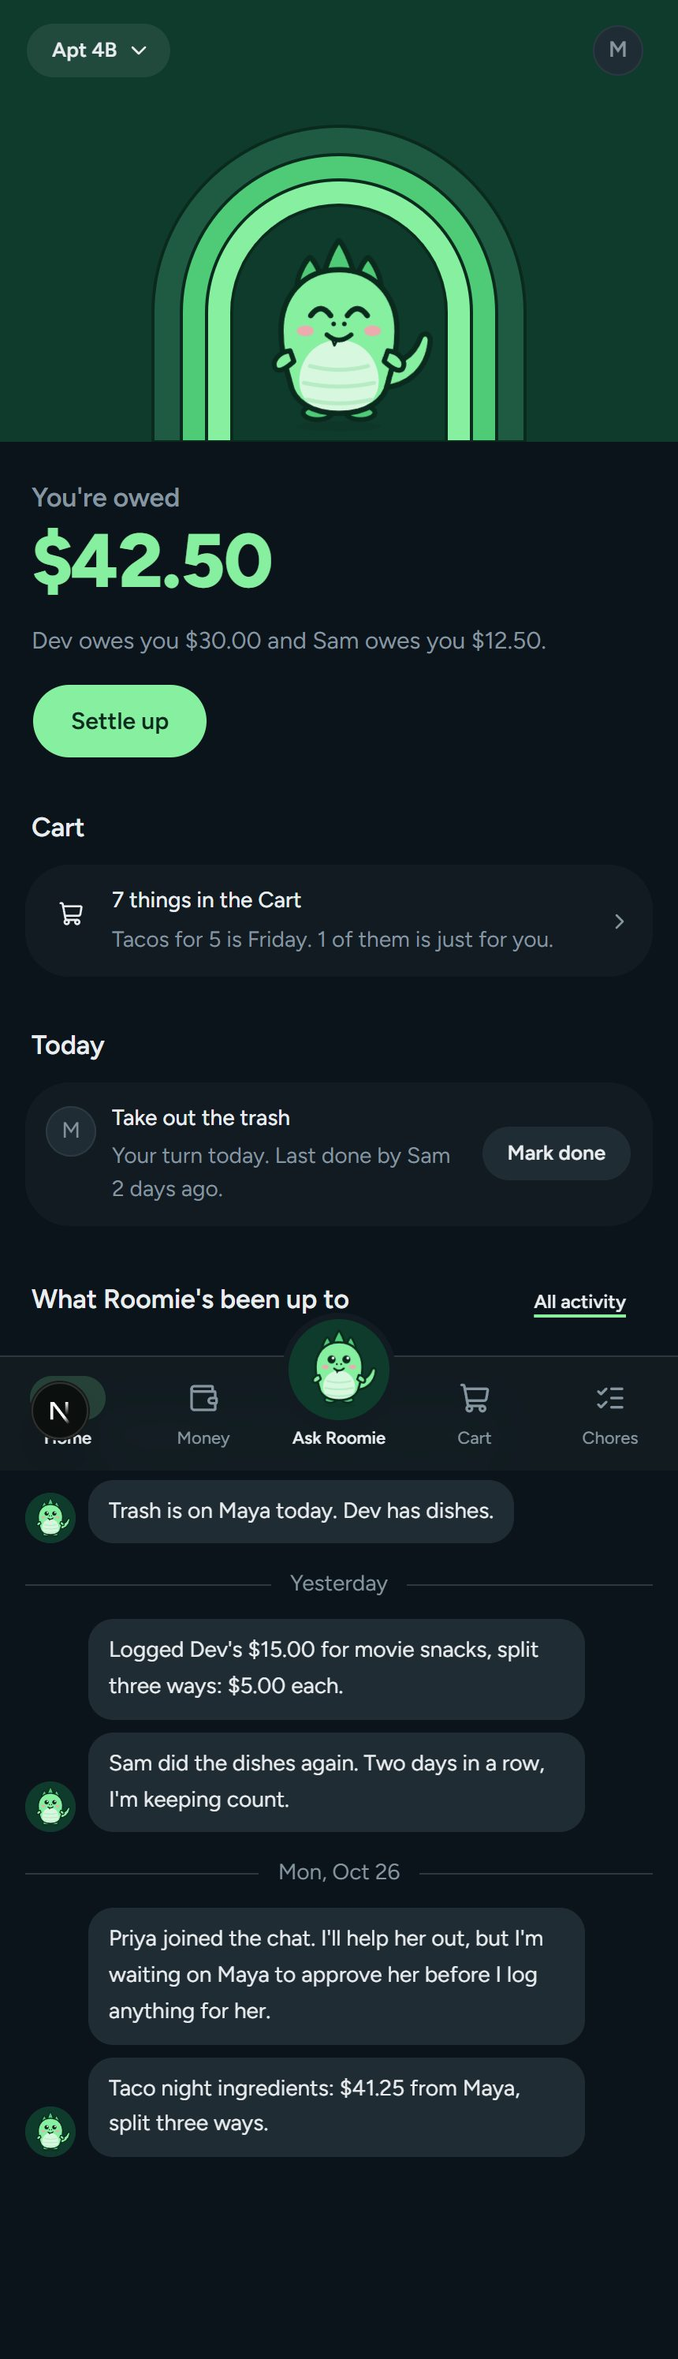
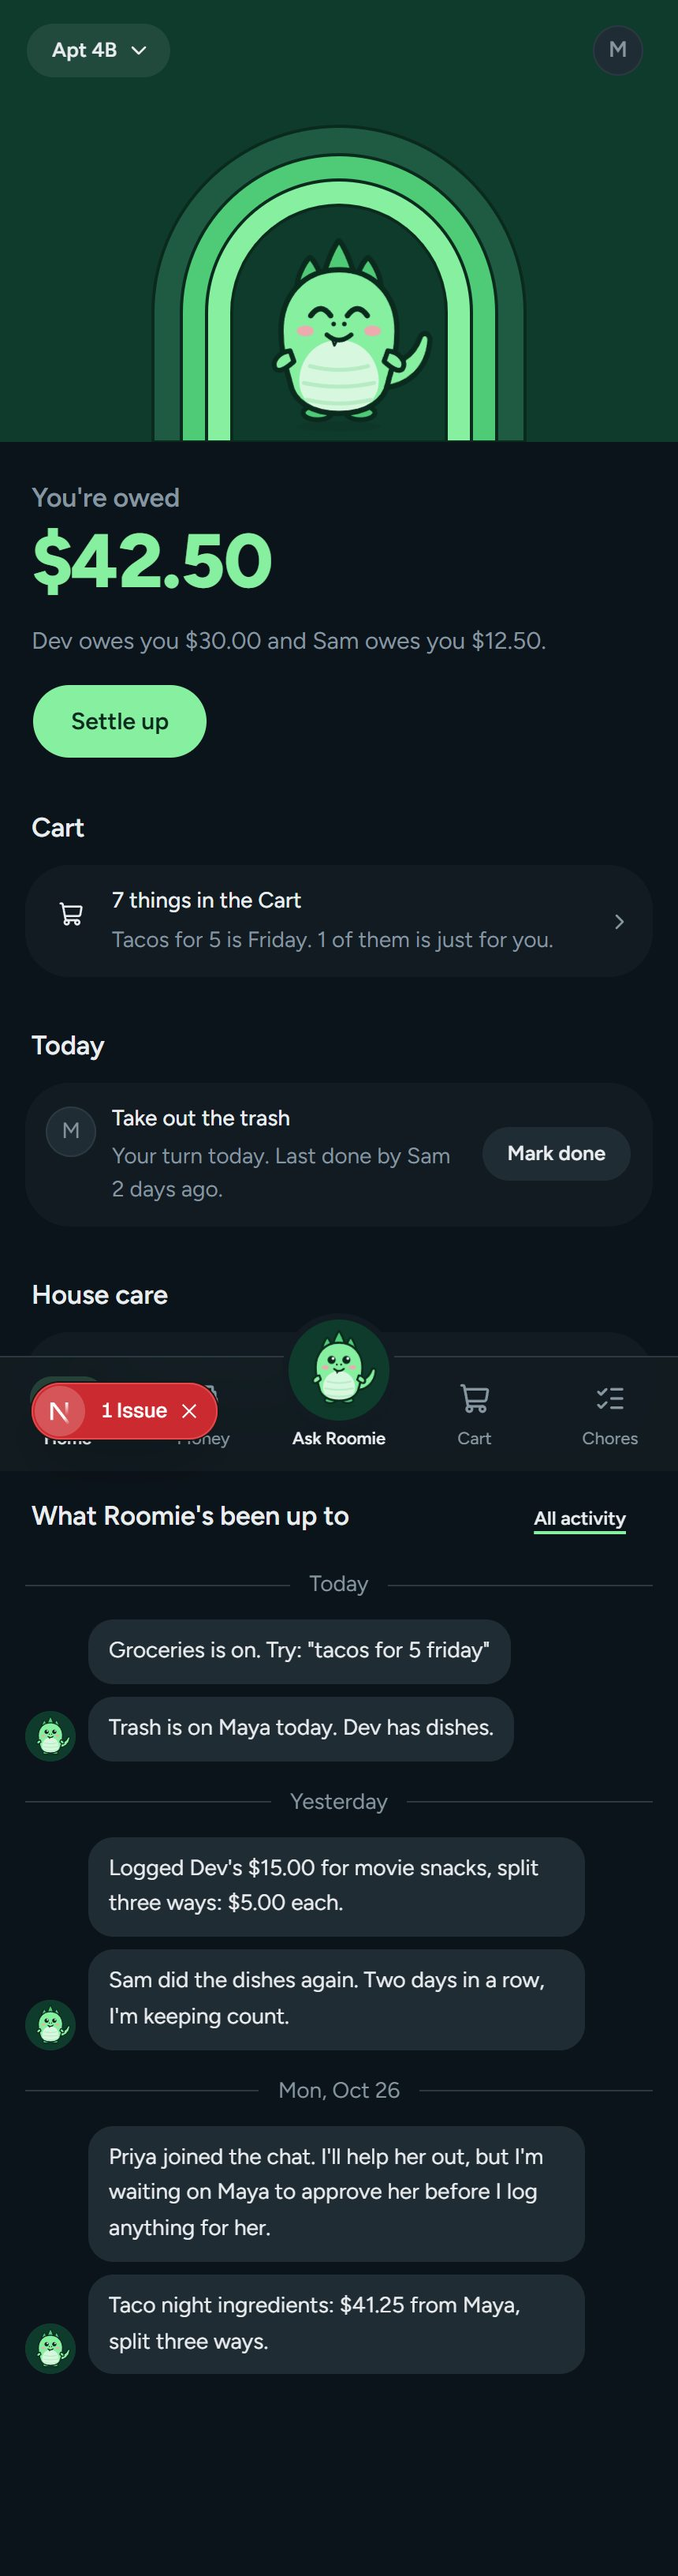
test(evals): baseline after the merge, 66/67 (99%; members fails as before: Roomie says 'you' to Dev); refreshed Home and Settings screenshots (Upkeep's Home section, step 7's schedule in core settings)

diff --git a/docs/evals-baseline.md b/docs/evals-baseline.md
@@ -1,65 +1,75 @@
 # Eval baseline
 
-`npm run evals` on 2026-10-29: **56/57 (98%)**, 6.8 s per scenario on average.
+`npm run evals` on 2026-10-29: **66/67 (99%)**, 7.1 s per scenario on average.
 Agent `claude-sonnet-5-5`, Gate `typesafeai-jev-1-14-0` (normal Chattiness), through the Neon AI Gateway.
 Scenarios are in `src/mastra/evals/scenarios.ts`; gate = decision/reason/toolkit, tools = what the agent called.
 
 | scenario | area | gate | tools | pass | why | reply |
 |---|---|---|---|---|---|---|
 | split-basic | splitting | act/hard-trigger/splitting | log_expense | ✅ |  | Logged: $60 internet, Maya paid, split 3 ways, $20 each 💸 |
-| split-subset | splitting | act/hard-trigger/splitting | log_expense | ✅ |  | Logged: $30 uber, Sam paid, split with Dev. Dev owes Sam $15.00 🚗 |
-| split-uneven-50-25-25 | splitting | act/hard-trigger/splitting | log_expense | ✅ |  | Logged: $90 dinner, Maya paid. Maya's share is $45 for the steak, and Dev and Sam owe $22.50 each 🥩 |
-| split-shares-2-2-1 | splitting | act/hard-trigger/splitting | log_expense | ✅ |  | Logged: $41.25 wine and cheese, Maya paid, split 2:2:1. Maya and Dev owe $16.50 each, Sam owes $8.25 🍷 |
-| split-exact-doesnt-add-up-asks | splitting | act/hard-trigger/groceries | cart_view | ✅ |  | Those parts add up to $55, not $50, so something's off. Also, the grocery cart is empty, and I can only split  |
-| multi-payer | splitting | act/hard-trigger/splitting | log_expense | ✅ |  | Logged: $100 concert tickets, Dev paid $60 and Maya $40, split 3 ways. Maya and Sam owe $33.33 each, Dev owes  |
-| delete-expense | splitting | act/hard-trigger/splitting | delete_expense | ✅ |  | Deleted the pizza expense ($24.00). Say "undo" if you want it back. |
+| split-subset | splitting | act/hard-trigger/splitting | log_expense | ✅ |  | Logged: $30 uber, Sam paid, split with Dev. Dev owes Sam $15.00 🚕 |
+| split-uneven-50-25-25 | splitting | act/hard-trigger/splitting | log_expense | ✅ |  | Logged: $90 dinner, Maya paid. Maya's share is $45.00 (steak 🥩), Dev and Sam owe $22.50 each. |
+| split-shares-2-2-1 | splitting | act/hard-trigger/splitting | log_expense | ✅ |  | Logged: $41.25 wine and cheese, Maya paid, split 2:2:1. Maya and Dev owe $16.50 each, Sam $8.25 🍷🧀 |
+| split-exact-doesnt-add-up-asks | splitting | act/hard-trigger/groceries | - | ✅ |  | Those add up to $55, not $50 (Dev 30 + Sam 15 + you 10). Which is off: the total or someone's share? |
+| multi-payer | splitting | act/hard-trigger/splitting | log_expense | ✅ |  | Logged: $100 concert tickets 🎟 Dev paid $60, Maya paid $40, split 3 ways. Maya's share is $33.33, Dev's is $ |
+| delete-expense | splitting | act/hard-trigger/splitting | delete_expense | ✅ |  | Deleted the pizza expense ($24.00). Say "undo" if you want it back. 🍕 |
 | delete-then-undo | splitting | act/hard-trigger/splitting | restore_expense | ✅ |  | Pizza's back, $24.00, all as it was 🍕 |
 | set-venmo | core | act/hard-trigger/splitting | set_payment_handle | ✅ |  | Done, your Venmo is set to @maya. Settle-up links will point there now 💸 |
-| owes-pairwise-simplify-off | splitting | act/hard-trigger/splitting | get_balances | ✅ |  | Sam, you're at -$60.00 and Maya's owed $60.00. Dev nets out at $0.00. The pairwise breakdown is Sam owes Dev $ |
+| owes-pairwise-simplify-off | splitting | act/hard-trigger/splitting | get_balances | ✅ |  | Sam, you owe $30.00 to Maya and $30.00 to Dev. Dev owes Maya $30.00. Dev nets out to $0 overall, and Maya is o |
 | owes-simplified | splitting | act/hard-trigger/splitting | get_balances | ✅ |  | Sam owes Maya $60.00. Dev's all square. Want the pay buttons? |
 | category-utilities | splitting | act/hard-trigger/splitting | log_expense | ✅ |  | Logged: $54 water bill, Maya paid, split 3 ways, $18 each 💧 |
-| settle-up-pay-links | splitting | act/hard-trigger/splitting | settle_up | ✅ |  | You owe Maya $20.00. The Venmo pay button is below 💸 Tell me once you've sent it and I'll record it. |
-| receipt-photo | splitting | act/hard-trigger/splitting | expense_from_receipt | ✅ |  | Logged Luigi's Trattoria, $137.97, you paid. Dev's share is $78.65 (steak plus a third of the rest), and you a |
-| owes-named | splitting | act/hard-trigger/splitting | get_balances | ✅ |  | Maya's owed $40.00. You owe her $20.00, and Sam owes her $20.00 too. |
-| owes-unaddressed-question | splitting | act/jev-act/splitting | get_balances | ✅ |  | Sam and Dev each owe Maya $20.00. Maya is up $40.00 overall. |
+| settle-up-pay-links | splitting | act/hard-trigger/splitting | settle_up | ✅ |  | You owe Maya $20.00. The Venmo pay button is below. Tell me once you've paid and I'll record it 💸 |
+| receipt-photo | splitting | act/hard-trigger/splitting | expense_from_receipt | ✅ |  | Logged Luigi's Trattoria, $137.97, you paid. Dev owes $78.65 (steak plus his share of the rest, with tax and t |
+| owes-named | splitting | act/hard-trigger/splitting | get_balances | ✅ |  | Dev owes Maya $20.00, and Sam owes Maya $20.00 too. Maya's up $40.00 overall. Want the pay buttons for Maya? |
+| owes-unaddressed-question | splitting | act/jev-act/splitting | get_balances | ✅ |  | Maya's owed $40.00 total: Dev owes her $20.00 and you owe her $20.00. Want the pay buttons, Sam? |
 | settle-up | splitting | act/hard-trigger/splitting | settle_up | ✅ |  | Logged: Dev paid Maya $20. You two are square now ✅ |
-| list-expenses | splitting | act/hard-trigger/splitting | list_expenses | ✅ |  | Just two so far: internet $60 (you, split 3 ways) and pizza $24 (Dev, $8 each), both yesterday. Want the balan |
-| unknown-name | splitting | act/hard-trigger/splitting | - | ✅ |  | Jordan isn't in this group (it's just Dev, Maya and Sam). Did you mean one of them, or does Jordan need to joi |
-| unprompted-pizza-asks-first | splitting | act/jev-act/splitting | - | ✅ |  | Want me to log $40 for pizza, Dev paid, split 3 ways? |
-| spanish | splitting | act/hard-trigger/splitting | log_expense | ✅ |  | Anotado: Uber $30, pagó Maya, dividido en 3, $10 cada uno 🚗 |
-| add-milk-eggs | groceries | act/hard-trigger/groceries | - | ✅ |  | Milk and eggs for you or for the whole house? |
-| add-shared | groceries | act/hard-trigger/groceries | cart_add | ✅ |  | Dish soap's in the cart as a shared item, about $3.49 estimated. Anything else for the house? |
-| view-cart | groceries | act/hard-trigger/groceries | cart_view | ✅ |  | Cart's got Dev's oat milk and 6 bananas, estimated total $13.93. Want me to add anything, or is it checkout ti |
+| list-expenses | splitting | act/hard-trigger/splitting | list_expenses | ✅ |  | Lately: pizza $24 (Dev paid) and internet $60 (you paid), both split 3 ways. That's $8 each for the pizza and  |
+| unknown-name | splitting | act/hard-trigger/splitting | - | ✅ |  | I don't see a Jordan in this group (just Dev, Maya and Sam). Did you mean one of them, or does Jordan still ne |
+| unprompted-pizza-asks-first | splitting | act/jev-act/splitting | - | ✅ |  | Want me to log $40 pizza, Dev paid, split 3 ways? |
+| spanish | splitting | act/hard-trigger/splitting | log_expense | ✅ |  | Listo: Uber $30, pagó Maya, entre 3 a $10 cada uno 🚕 |
+| add-milk-eggs | groceries | act/hard-trigger/groceries | - | ✅ |  | Milk and eggs for just you, or for the whole house? |
+| add-shared | groceries | act/hard-trigger/groceries | cart_add | ✅ |  | Dish soap's in the cart as a shared item, about $3.49 estimated. 🧼 |
+| view-cart | groceries | act/hard-trigger/groceries | cart_view | ✅ |  | Cart's got 2 items, both Dev's: 6 bananas and 1 oat milk. Estimated total is $13.93 🛒 |
 | remove-item | groceries | act/hard-trigger/groceries | cart_remove | ✅ |  | Milk's off the list ✅ |
-| checkout-link | groceries | act/hard-trigger/groceries | cart_checkout | ✅ |  | Your Instacart list is ready: 2 items, about $8.78 estimated. Tap the button to order. Once someone's bought i |
-| paid-84-after-checkout | groceries | act/hard-trigger/groceries | cart_purchased | ✅ |  | Logged: $84 groceries (4 items), Maya paid. Shares: Maya $32.57, Dev $36.00, Sam $15.43. Cart's cleared 🛒 |
-| add-chicken-for-house | groceries | act/hard-trigger/groceries | cart_add | ✅ |  | Added 2 lb chicken for the house, about $8.99 est. It's the only thing in the cart so far 🍗 |
-| out-of-dish-soap | groceries | act/hard-trigger/groceries | cart_add | ✅ |  | Dish soap's on the cart as a shared item, about $3.49. Want anything else on it before checkout? |
-| recipe-tacos-friday | groceries | act/hard-trigger/groceries | recipe_draft | ✅ |  | Tacos for 5 (serves 5, 35 min), set for Friday. Need: 1.75 lb ground beef, 1 yellow onion, 1/2 head garlic, 3  |
-| recipe-yes-add-them | groceries | act/jev-act/groceries | recipe_add_to_cart | ✅ |  | Added 12 items to the shared cart, about $46.54 total, and I left the onion out. Say the word when you want to |
-| recipe-explicit-add | groceries | act/hard-trigger/groceries | recipe_draft,recipe_add_to_cart | ✅ |  | They explicitly asked to add, so add.Garlic Tomato Spaghetti for 3, 25 min: spaghetti, crushed tomatoes, garli |
-| recipe-instacart-link | groceries | act/hard-trigger/groceries | recipe_link | ✅ |  | Here you go, Dev: the Instacart page for Tacos for 5 is attached 🌮 |
-| view-cart-recipe | groceries | act/hard-trigger/groceries | cart_view | ✅ |  | Cart has 12 items, est. $46.82. Dev has oat milk, and the other 11 are shared taco ingredients Maya added (tor |
-| pantry-set | groceries | act/hard-trigger/groceries | pantry_set | ✅ |  | Noted: salt and oil are pantry staples now, so I'll leave them off recipe carts. 🧂 |
-| pantry-list | groceries | act/hard-trigger/groceries | pantry_list | ✅ |  | Pantry staples: oil, rice, and salt. Tell me if anything should be added or taken off. |
-| cart-purchased | groceries | act/hard-trigger/groceries | cart_purchased | ✅ |  | Logged: $42 groceries, Sam paid. Maya's part is $22.24 and Dev's is $19.76 💸 |
-| follow-up-window-chips | groceries | maybe/follow-up/groceries | - | ✅ |  | Got it, 2 bags of chips. Are the salsa and chips just for you or for the whole house? |
-| did-dishes | chores | act/hard-trigger/chores | log_chore | ✅ |  | Dishes logged for Dev ✨ That's streak 1, so keep it going. |
-| did-dishes-unprompted-asks | chores | act/jev-act/chores | - | ✅ |  | Want me to log dishes as done by Dev? 🧽 |
-| whose-turn | chores | act/hard-trigger/chores | chore_status | ✅ |  | Dev's up. Maya just took it out today, so the next one isn't due until Sunday night 🗑 |
-| add-chore | chores | act/hard-trigger/chores | add_chore | ✅ |  | Vacuuming is on the chart, every 7 days 🧹 |
-| chore-for-someone-else | chores | act/hard-trigger/chores | log_chore | ✅ |  | Trash logged for Dev ✨ Nice, that's a streak of 1. |
-| track-ac-filter | upkeep | act/hard-trigger/upkeep | add_maintenance | ✅ |  | Tracking it: AC filter, every 90 days. Tell me when it's changed and I'll reset the clock ❄ |
-| maintenance-done | upkeep | act/hard-trigger/upkeep | maintenance_done | ✅ |  | Marked done: HVAC filter replaced today, thanks Dev 🙌 |
-| remind-trash-tuesday | reminders | act/hard-trigger/chores | set_reminder | ✅ |  | Done. Tuesday Nov 3, 8:00 PM: trash goes out, everyone. 🗑 |
-| list-reminders | reminders | act/hard-trigger/core | list_reminders | ✅ |  | Just one: "Rent is due" for everyone, Monday Nov 2 at 10:45 PM. Want me to add or change any? |
-| group-report | core | act/hard-trigger/core | group_report | ✅ |  | 📣 Group report 💸 Dev pays Maya $20.00 💸 Sam pays Maya $20.00 🧹 No chores on the chart yet. ⏰ Nothing sched |
-| members | core | act/hard-trigger/core | list_members | ❌ | reply lacks Dev | It's you, Maya, and Sam. Maya's the admin, and all three of you are active. |
-| what-can-you-do | core | act/hard-trigger/core | list_toolkits | ✅ |  | Here's what I've got on: splitting costs ("I paid 60 for internet", "who owes what?"), groceries ("tacos for 5 |
-| turn-on-research | core | act/hard-trigger/core | toggle_toolkit | ✅ |  | Research isn't ready yet, Maya. It's on the list, but I can't switch it on for now. Splitting, Groceries, Chor |
-| groceries-off-member | core | act/hard-trigger/groceries | - | ✅ |  | Only admins can switch Toolkits, and Maya's the admin here. Maya, want me to turn Groceries off? |
+| checkout-link | groceries | act/hard-trigger/groceries | cart_checkout | ✅ |  | Instacart list is ready: 2 items, about $8.78 estimated. Tap the button to order. Once someone pays, tell me t |
+| paid-84-after-checkout | groceries | act/hard-trigger/groceries | cart_purchased | ✅ |  | Logged: $84.00 groceries (4 items), Maya paid. Split by what each person added: Dev owes $36.00, Sam owes $15. |
+| add-chicken-for-house | groceries | act/hard-trigger/groceries | cart_add | ✅ |  | Added 2 lb chicken to the house cart, est. $8.99 🍗 |
+| out-of-dish-soap | groceries | act/hard-trigger/groceries | cart_add | ✅ |  | Dish soap's in the cart as a shared item, about $3.49 🧼 It's the only thing in there so far. |
+| recipe-tacos-friday | groceries | act/hard-trigger/groceries | recipe_draft | ✅ |  | Tacos for 5 (serves 5, 35 min) Need: 1.5 lb ground beef, 1 yellow onion, 1 head garlic, 2 tbsp chili powder, 2 |
+| recipe-yes-add-them | groceries | act/jev-act/groceries | recipe_add_to_cart | ✅ |  | Added 12 items to the shared cart, about $47.75 total. I left out the onions. Want me to order it through Inst |
+| recipe-explicit-add | groceries | act/hard-trigger/groceries | recipe_draft,recipe_add_to_cart | ✅ |  | They asked to add to cart explicitly.Garlic Tomato Spaghetti for 3 is up. It takes 25 min, and the full steps  |
+| recipe-instacart-link | groceries | act/hard-trigger/groceries | recipe_link | ✅ |  | Here's the Instacart page for Tacos for 5, Dev. The button's attached 🌮 |
+| view-cart-recipe | groceries | act/hard-trigger/groceries | cart_view | ✅ |  | Cart's at 12 items, est. $46.82. Dev has oat milk, and the other 11 are shared taco stuff from Maya's Tacos fo |
+| pantry-set | groceries | act/hard-trigger/groceries | pantry_set | ✅ |  | Got it, salt and oil are in the pantry now. I'll leave them off any recipe shopping lists. 🧂 |
+| pantry-list | groceries | act/hard-trigger/groceries | pantry_list | ✅ |  | Pantry staples: oil, rice and salt. Tell me if anything should be added or taken off. |
+| cart-purchased | groceries | act/hard-trigger/groceries | cart_purchased | ✅ |  | Logged: $42 groceries, Sam paid. Maya owes $22.24 and Dev owes $19.76, and the cart is cleared 🛒 |
+| follow-up-window-chips | groceries | maybe/follow-up/groceries | - | ✅ |  | Got it, salsa and 2 bags of chips. Are those both just for you, or for the whole house? |
+| did-dishes | chores | act/hard-trigger/chores | log_chore | ✅ |  | Dishes done by Dev ✨ Maya's up next. |
+| did-dishes-unprompted-asks | chores | act/jev-act/chores | - | ✅ |  | Want me to log the dishes as done by you, Dev? |
+| whose-turn | chores | act/hard-trigger/chores | chore_status | ✅ |  | Dev's up. Maya did it today, so it isn't due until Sunday. |
+| add-chore | chores | act/hard-trigger/chores | chore_add | ✅ |  | Added vacuuming to the chart, every 7 days. Rotation is Dev, then Maya, then Sam 🧹 |
+| chore-for-someone-else | chores | act/hard-trigger/chores | log_chore | ✅ |  | Trash is done by Dev ✨ Maya, you're up next. |
+| whose-turn-rotation | chores | act/hard-trigger/chores | chore_status | ✅ |  | Dev's up on trash. Maya just did it today, and it's next due Saturday. |
+| skip-my-turn | chores | act/hard-trigger/chores | chore_skip | ✅ |  | Done, skipped your turn on trash. Sam's up next. Enjoy the trip 👋 |
+| add-chore-rotation | chores | act/hard-trigger/chores | chore_add | ✅ |  | Mopping's on the chart: every 3 days, Sam → Dev → Maya. Sam's up first 🧽 |
+| the-chart | chores | act/hard-trigger/chores | hall_of_shame | ✅ |  | Sam's at the bottom with 0 chores this week, while you and Maya have 1 each. The chart has spoken 👀 Nothing p |
+| track-ac-filter | upkeep | act/hard-trigger/upkeep | upkeep_add | ✅ |  | Tracking it: AC filter, every 90 days. Tell me when it's changed and I'll reset the clock 🛠 |
+| maintenance-done | upkeep | act/hard-trigger/upkeep | upkeep_done | ✅ |  | Nice, HVAC filter marked done. Next one's due Jan 27, 2027 🧼 |
+| air-filter-done | upkeep | act/hard-trigger/upkeep | upkeep_done | ✅ |  | Air filter marked done ✅ Next one's due Jan 27, 2027 (every 90 days). |
+| whats-due-this-week | upkeep | act/hard-trigger | chore_status,upkeep_status | ✅ |  | Dishes are due today, and it's Dev's turn. 🍽 On upkeep, all five items are due and have never been marked do |
+| remind-trash-tuesday | reminders | act/hard-trigger/chores | set_reminder | ✅ |  | Done. Tue Nov 3, 8:00 PM: trash goes out, everyone 🗑 |
+| remind-rent-monthly | reminders | act/hard-trigger/core | set_reminder | ✅ |  | Done, Maya. I'll DM you "Pay rent" on the 1st of every month at 9:00 AM. The first one is Sun Nov 1. 🏠 |
+| remind-dev-private | reminders | act/hard-trigger/splitting | set_reminder | ✅ |  | Done. I'll ping Dev privately on Fri Oct 30 at 6:00 PM to pay you back for brunch. |
+| weekly-report-verbatim | core | act/hard-trigger/core | group_report | ✅ |  | 📋 Group report · Eval weekly-report-verbatim 1793250154243 💸 Dev pays Maya $20.00 and Sam pays Maya $20.00.  |
+| setup-india-household | core | act/hard-trigger/core | set_group_settings | ✅ |  | All set: roommates, INR, India time. Splitting, Groceries, Chores and Upkeep are on, with 3 starter chores and |
+| list-reminders | reminders | act/hard-trigger/core | list_reminders | ✅ |  | Just one coming up: "Rent is due" for everyone, Mon Nov 2 at 11:03 PM. Want me to move it or add another? |
+| group-report | core | act/hard-trigger | group_report | ✅ |  | 📋 Group report · Eval group-report 1793250188804 💸 Dev pays Maya $20.00 and Sam pays Maya $20.00. 🛒 The Car |
+| members | core | act/hard-trigger/core | list_members | ❌ | reply lacks Dev | Three of us: you, Maya (admin), and Sam. All active ✅ |
+| what-can-you-do | core | act/hard-trigger/core | list_toolkits | ✅ |  | Here's what I've got on: splitting costs ("I paid 60 for internet"), groceries ("tacos for 5 friday", "add mil |
+| turn-on-research | core | act/hard-trigger/core | toggle_toolkit | ✅ |  | Research isn't ready yet, Maya. It's on the list, but I can't switch it on for now. Splitting, groceries, chor |
+| groceries-off-member | core | act/hard-trigger/groceries | - | ✅ |  | Only admins can switch Toolkits, and that's Maya in this group. Maya, want me to turn Groceries off? Just say  |
 | chatter-game | gate | ignore/jev-ignore | - | ✅ |  | (quiet) |
 | chatter-see-you | gate | ignore/jev-ignore | - | ✅ |  | (quiet) |
 | window-chatter-stays-quiet | gate | ignore/jev-ignore | - | ✅ |  | (quiet) |
-| thanks-roomie | gate | act/hard-trigger | - | ✅ |  | Anytime! Salsa still isn't on the list though. Is it just for you or for the whole house? |
-| vague-clarifies | gate | clarify/jev-clarify/splitting | - | ✅ |  | Who paid, and how much for what? Once I have the details I can log it, split evenly between Dev, Maya and Sam  |
+| thanks-roomie | gate | act/hard-trigger | - | ✅ |  | Anytime! Salsa still isn't in the cart, though. Is it for you or the whole house? |
+| vague-clarifies | gate | clarify/jev-clarify/splitting | - | ✅ |  | Who paid, for what, and how much? I'll log it once I have those, and I'll split it evenly three ways unless yo |
